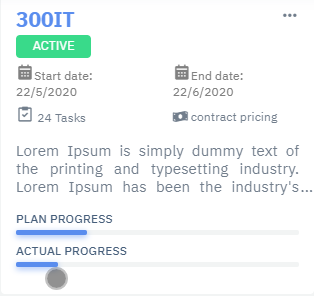
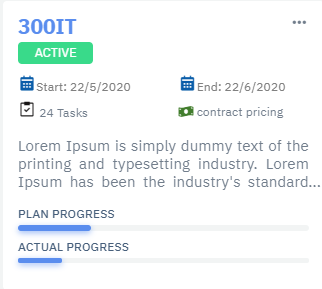
no message

diff --git a/html/ltr/vertical-menu-boxicons-template/Projects.html b/html/ltr/vertical-menu-boxicons-template/Projects.html
@@ -261,7 +261,7 @@
           </div>
             <div class="content-header row">
               <div class="col-md-4 col-12 col-sm-6">
-                <div class="card">
+                <div class="card mb-1 mb-md-auto">
                   <div class="card-content p-2">
                     <div class="d-flex activity-content">
                       <div class="avatar bg-rgba-primary m-0 mr-75">
@@ -280,7 +280,7 @@
                   </div>
                 </div>
               </div>
-              <div class="col-md-4 col-12 col-sm-6">
+              <div class="col-md-4 col-12 col-sm-6 mb-1 mb-md-auto">
                 <div class="card">
                   <div class="card-content p-2">
                     <div class="d-flex activity-content">
@@ -300,7 +300,7 @@
                   </div>
                 </div>
               </div>
-              <div class="col-md-4 col-12 col-sm-6">
+              <div class="col-md-4 col-12 col-sm-6 mb-1 mb-md-auto">
                 <div class="card">
                   <div class="card-content p-2">
                     <div class="d-flex activity-content">
@@ -461,7 +461,7 @@
                                       </div>
                                     </div>
                                     <div>
-                                      <div class="badge badge-success">Active</div>
+                                      <div class="badge badge-primary">Active</div>
                                       <div class="time-card row">
                                         <span class="col-sm-6"><i class="bx bxs-calendar"></i>Start:
                                       <span> 22/5/2020 </span></span>
@@ -530,7 +530,7 @@
                                       </div>
                                     </div>
                                     <div>
-                                      <div class="badge badge-danger">Closed</div>
+                                      <div class="badge badge-success">Closed</div>
                                       <div class="time-card row">
                                         <span class="col-sm-6"><i class="bx bxs-calendar"></i>Start:
                                       <span> 22/5/2020 </span></span>
@@ -599,7 +599,7 @@
                                       </div>
                                     </div>
                                     <div>
-                                      <div class="badge badge-warning">Late</div>
+                                      <div class="badge badge-danger">Late</div>
                                       <div class="time-card row">
                                         <span class="col-sm-6"><i class="bx bxs-calendar"></i>Start:
                                       <span> 22/5/2020 </span></span>
@@ -677,7 +677,7 @@
                                       </div>
                                     </div>
                                     <div>
-                                      <div class="badge badge-success">Active</div>
+                                      <div class="badge badge-primary">Active</div>
                                       <div class="time-card row">
                                         <span class="col-sm-6"><i class="bx bxs-calendar"></i>Start:
                                       <span> 22/5/2020 </span></span>
@@ -749,7 +749,7 @@
                                       </div>
                                     </div>
                                     <div>
-                                      <div class="badge badge-warning">Late</div>
+                                      <div class="badge badge-danger">Late</div>
                                       <div class="time-card row">
                                         <span class="col-sm-6"><i class="bx bxs-calendar"></i>Start:
                                       <span> 22/5/2020 </span></span>
@@ -820,7 +820,7 @@
                                       </div>
                                     </div>
                                     <div>
-                                      <div class="badge badge-danger">Closed</div>
+                                      <div class="badge badge-success">Closed</div>
                                       <div class="time-card row">
                                         <span class="col-sm-6"><i class="bx bxs-calendar"></i>Start:
                                       <span> 22/5/2020 </span></span>
@@ -890,7 +890,7 @@
                                       </div>
                                     </div>
                                     <div>
-                                      <div class="badge badge-danger">Closed</div>
+                                      <div class="badge badge-success">Closed</div>
                                       <div class="time-card row">
                                         <span class="col-sm-6"><i class="bx bxs-calendar"></i>Start:
                                       <span> 22/5/2020 </span></span>
@@ -960,7 +960,7 @@
                                       </div>
                                     </div>
                                     <div>
-                                      <div class="badge badge-success">Active</div>
+                                      <div class="badge badge-primary">Active</div>
                                       <div class="time-card row">
                                         <span class="col-sm-6"><i class="bx bxs-calendar"></i>Start:
                                       <span> 22/5/2020 </span></span>

diff --git a/assets/css/main-style.css b/assets/css/main-style.css
@@ -57,11 +57,9 @@
   background: white;
 }
 .time-card .bxs-calendar{
-    color:#0A5DA9;
+    color:#5A8DEE;
 }
-.contract-details .fa-money-bill-wave{
-    color: #427D2D;
-}
+
 .btn-sm{
 	padding:4px 10px !important
 }
@@ -78,13 +76,13 @@
     font-size:12px;
     color:gray;
 }
-.contract-details a:hover{
+.contract-details div:nth-child(2) a:hover{
     color:#5fb142 !important;
 }
 .dropdown .bx:hover{
     color:#5A8DEE !important;
 }
-.contract-details .bx-task{
+.contract-details i{
     color:#171515;
 }
 
